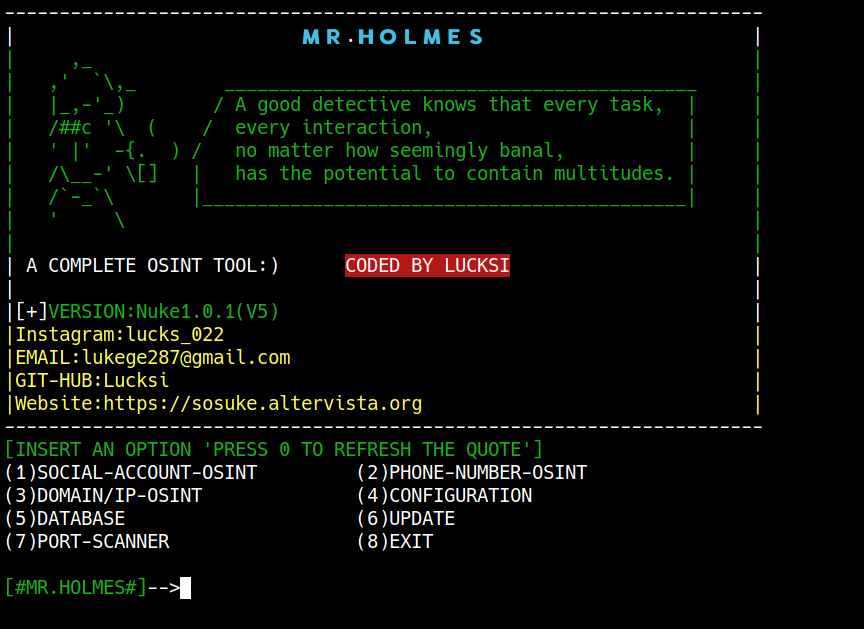
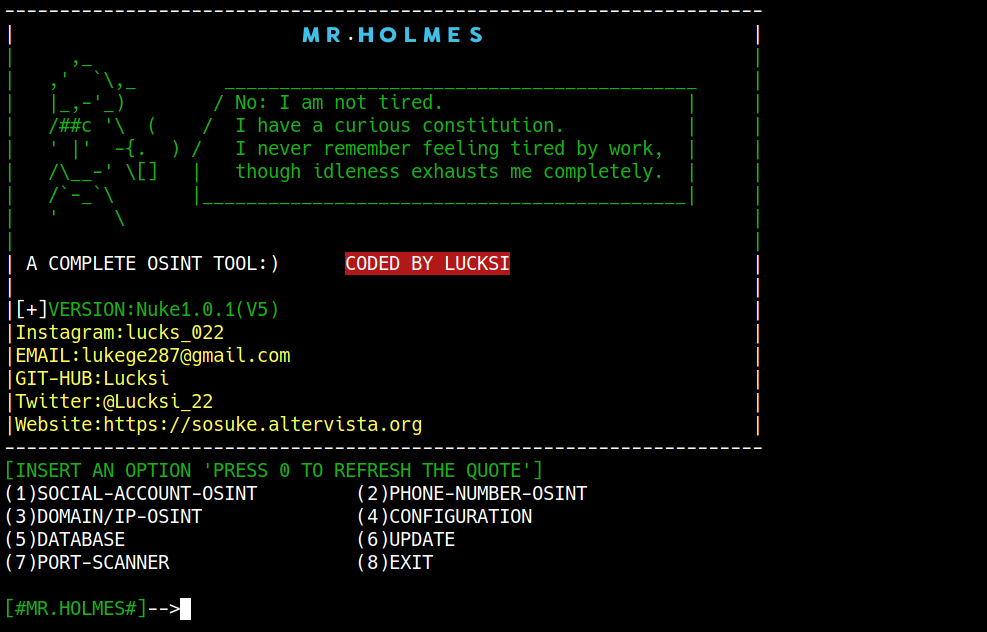
Add files via upload

diff --git a/MrHolmes.py b/MrHolmes.py
@@ -3,122 +3,17 @@
 # Copyright © 2021 Lucksi
 # License: GNU General Public License v3.0
 
-import os
-import random
+from Core.Support import Menu
 from Core.Support import Font
-from Core.Support import Clear
-from Core import Searcher
-from Core import config
-from Core import Searcher_phone
-from Core import Searcher_website
-from Core import Port_Scanner
-from Core import Update
-from Core.Support import Database
-from Core.Support import Agree
 
 class Main:
 
-    @staticmethod
-    def Checker():
-        if os.path.exists("Configuration/Agreement.txt"):
-            pass
-        else:
-            Agree.One_time.Agreement()
-
-    @staticmethod
-    def banner(r):
-        Clear.Screen.Clear()
-        f = open("Version/Version.txt", "r", newline=None)
-        for line in f:
-            r = line.replace("\n", "")
-        version = f.read() + r
-        f.close()
-        Quotes = [  "Quotes1.txt","Quotes4.txt","Quotes3.txt","Quotes7.txt",
-                    "Quotes6.txt","Quotes2.txt","Quotes5.txt","Quotes8.txt",
-                    "Quotes9.txt","Quotes10.txt","Quotes11.txt","Quotes12.txt",
-                    "Quotes13.txt","Quotes14.txt","Quotes15.txt","Quotes16.txt",
-                    "Quotes17.txt","Quotes18.txt","Quotes19.txt","Quotes20.txt" ]
-        choice = random.choice(Quotes)
-        f = open("Quotes/" + choice,"r", newline=None)
-        text = f.read()
-        f.close()
-        if os.name == "nt":
-            u = "|\t\t\t    MR.HOLMES\t\t\t\t    |"
-        else:
-            u = "|\t\t\t   🇲🇷.🇭🇴🇱🇲🇪🇸\t\t\t    |"
-        print(Font.Color.WHITE + "---------------------------------------------------------------------")
-        print(Font.Color.WHITE + u)
-        print(Font.Color.GREEN + text
-        +
-        Font.Color.WHITE + "| A COMPLETE OSINT TOOL:)      " +      Font.Color.BANNER + "CODED BY LUCKSI" + Font.Color.RESET + Font.Color.WHITE + "                      |\n|                                                                   |")
-        print(Font.Color.WHITE + "|[+]" + Font.Color.GREEN + "VERSION:" + version + Font.Color.WHITE + "                                           |")
-        print(
-            Font.Color.YELLOW + "|Instagram:lucks_022                                                |\n|EMAIL:lukege287@gmail.com                                          |\n|GIT-HUB:Lucksi                                                     |\n|Website:https://sosuke.altervista.org                              |")
-        print(Font.Color.WHITE + "---------------------------------------------------------------------")
-
-    @staticmethod
-    def main():
-        while True:
-            try:
-                Main.Checker()
-                Main.banner(r=True)
-                option = "(1)SOCIAL-ACCOUNT-OSINT\t\t(2)PHONE-NUMBER-OSINT\n(3)DOMAIN/IP-OSINT\t\t(4)CONFIGURATION\n(5)DATABASE\t\t\t(6)UPDATE\n(7)PORT-SCANNER\t\t\t(8)EXIT"
-                options = str(option)
-                print(Font.Color.GREEN + "[INSERT AN OPTION 'PRESS 0 TO REFRESH THE QUOTE']")
-                print(Font.Color.WHITE + options)
-                sce = int(input(Font.Color.GREEN + "\n[#MR.HOLMES#]" + Font.Color.WHITE + "-->"))
-                if sce == 1:
-                    print(Font.Color.RED + "\n[!]" + Font.Color.WHITE + "ATTENTION SOME OF THE RESULTS MAY BE FALSE POSITIVES")
-                    username = str(input(
-                        Font.Color.BLUE + "\n[+]" + Font.Color.WHITE + "INSERT THE USERNAME" + Font.Color.GREEN + "\n\n[#MR.HOLMES#]" + Font.Color.WHITE + "-->"))
-                    while username == "" :
-                        username = str(input(
-                        Font.Color.BLUE + "\n[+]" + Font.Color.WHITE + "INSERT THE USERNAME" + Font.Color.GREEN + "\n\n[#MR.HOLMES#]" + Font.Color.WHITE + "-->"))
-                    Searcher.MrHolmes.search(username)
-
-                elif sce == 2:
-                    username = str(input(
-                        Font.Color.BLUE + "\n[+]" + Font.Color.WHITE + "INSERT THE PHONE NUMBER WITHOUT(+)" + Font.Color.GREEN + "\n\n[#MR.HOLMES#]" + Font.Color.WHITE + "-->"))
-                    while username == "" :
-                        username = str(input(
-                            Font.Color.BLUE + "\n[+]" + Font.Color.WHITE + "INSERT THE PHONE NUMBER WITHOUT(+)" + Font.Color.GREEN + "\n\n[#MR.HOLMES#]" + Font.Color.WHITE + "-->"))
-                    Searcher_phone.Phone_search.searcher(username)
-
-                elif sce == 3:
-                    username = str(input(Font.Color.BLUE + "\n[+]" + Font.Color.WHITE + "INSERT A DOMAIN OR A IP ADDRESS(IPv4/IPv6)" + Font.Color.GREEN + "\n\n[#MR.HOLMES#]" + Font.Color.WHITE + "-->"))
-                    while username == "":
-                        username = str(input(Font.Color.BLUE + "\n[+]" + Font.Color.WHITE + "INSERT A DOMAIN OR A IP ADDRESS(IPv4/IPv6)" + Font.Color.GREEN + "\n\n[#MR.HOLMES#]" + Font.Color.WHITE + "-->"))
-                    Searcher_website.Web.search(username)
-                elif sce == 4:
-                    config.Config.main()
-                elif sce == 5:
-                    Database.Controller.Gui()
-                elif sce == 6:
-                    if os.name == "nt":
-                       #os.system("cd Core && update.cmd")#
-                       Update.Downloader.Check_Creds()
-                    else:
-                        os.system("Core/./update.sh")
-                elif sce == 7:
-                    username = input(Font.Color.BLUE + "\n[+]" + Font.Color.WHITE + "INSERT A HOST TO SCAN" + Font.Color.GREEN + "\n\n[#MR.HOLMES#]" + Font.Color.WHITE + "-->")
-                    while username == "":
-                        username = str(input(Font.Color.BLUE + "\n[+]" + Font.Color.WHITE + "INSERT A HOST TO SCAN " + Font.Color.GREEN + "\n\n[#MR.HOLMES#]" + Font.Color.WHITE + "-->"))
-                    Port_Scanner.Ports.Main(username)
-                elif sce == 8:
-                    print("\nHAVE A NICE DAY BYE:)\n")
-                    exit()
-                elif sce == 0:
-                    Main.main()
-                else:
-                    print(Font.Color.RED + "[!]" + Font.Color.WHITE + "LOOKS LIKE YOU HIT A WRONG OPTION EXIT...")
-                    exit()
-            except ValueError as e :
-                print(Font.Color.RED + "[!]" + Font.Color.WHITE + "LOOKS LIKE YOU HIT A WRONG OPTION EXIT...")
-                exit()
+    def Menu():
+        Menu.Main.main()
 
 if __name__ == "__main__":
     try:
-        Main.main()
+       Main.Menu()
     except KeyboardInterrupt:
         print(Font.Color.RED + "\n\n[!]" + Font.Color.WHITE + "LOOKS LIKE YOU HIT 'CTRL-C' EXIT...")
         exit()

diff --git a/Core/Support/Menu.py b/Core/Support/Menu.py
@@ -1,0 +1,116 @@
+#!/usr/bin/python3
+# AUTHOR: Lucksi
+# Copyright © 2021 Lucksi
+# License: GNU General Public License v3.0
+
+import os
+import random
+from Core.Support import Font
+from Core.Support import Clear
+from Core import Searcher
+from Core import config
+from Core import Searcher_phone
+from Core import Searcher_website
+from Core import Port_Scanner
+from Core import Update
+from Core.Support import Database
+from Core.Support import Agree
+
+class Main:
+
+    @staticmethod
+    def Checker():
+        if os.path.exists("Configuration/Agreement.txt"):
+            pass
+        else:
+            Agree.One_time.Agreement()
+
+    @staticmethod
+    def banner(r):
+        Clear.Screen.Clear()
+        f = open("Version/Version.txt", "r", newline=None)
+        for line in f:
+            r = line.replace("\n", "")
+        version = f.read() + r
+        f.close()
+        Quotes = [  "Quotes1.txt","Quotes4.txt","Quotes3.txt","Quotes7.txt",
+                    "Quotes6.txt","Quotes2.txt","Quotes5.txt","Quotes8.txt",
+                    "Quotes9.txt","Quotes10.txt","Quotes11.txt","Quotes12.txt",
+                    "Quotes13.txt","Quotes14.txt","Quotes15.txt","Quotes16.txt",
+                    "Quotes17.txt","Quotes18.txt","Quotes19.txt","Quotes20.txt" ]
+        choice = random.choice(Quotes)
+        f = open("Quotes/" + choice,"r", newline=None)
+        text = f.read()
+        f.close()
+        if os.name == "nt":
+            u = "|\t\t\t    MR.HOLMES\t\t\t\t    |"
+        else:
+            u = "|\t\t\t   🇲🇷.🇭🇴🇱🇲🇪🇸\t\t\t    |"
+        print(Font.Color.WHITE + "---------------------------------------------------------------------")
+        print(Font.Color.WHITE + u)
+        print(Font.Color.GREEN + text
+        +
+        Font.Color.WHITE + "| A COMPLETE OSINT TOOL:)      " +      Font.Color.BANNER + "CODED BY LUCKSI" + Font.Color.RESET + Font.Color.WHITE + "                      |\n|                                                                   |")
+        print(Font.Color.WHITE + "|[+]" + Font.Color.GREEN + "VERSION:" + version + Font.Color.WHITE + "                                           |")
+        print(
+            Font.Color.YELLOW + "|Instagram:lucks_022                                                |\n|EMAIL:lukege287@gmail.com                                          |\n|GIT-HUB:Lucksi                                                     |\n|Twitter:@Lucksi_22                                                 |\n|Website:https://sosuke.altervista.org                              |")
+        print(Font.Color.WHITE + "---------------------------------------------------------------------")
+
+    @staticmethod
+    def main():
+        while True:
+            try:
+                Main.Checker()
+                Main.banner(r=True)
+                option = "(1)SOCIAL-ACCOUNT-OSINT\t\t(2)PHONE-NUMBER-OSINT\n(3)DOMAIN/IP-OSINT\t\t(4)CONFIGURATION\n(5)DATABASE\t\t\t(6)UPDATE\n(7)PORT-SCANNER\t\t\t(8)EXIT"
+                options = str(option)
+                print(Font.Color.GREEN + "[INSERT AN OPTION 'PRESS 0 TO REFRESH THE QUOTE']")
+                print(Font.Color.WHITE + options)
+                sce = int(input(Font.Color.GREEN + "\n[#MR.HOLMES#]" + Font.Color.WHITE + "-->"))
+                if sce == 1:
+                    print(Font.Color.RED + "\n[!]" + Font.Color.WHITE + "ATTENTION SOME OF THE RESULTS MAY BE FALSE POSITIVES")
+                    username = str(input(
+                        Font.Color.BLUE + "\n[+]" + Font.Color.WHITE + "INSERT THE USERNAME" + Font.Color.GREEN + "\n\n[#MR.HOLMES#]" + Font.Color.WHITE + "-->"))
+                    while username == "" :
+                        username = str(input(
+                        Font.Color.BLUE + "\n[+]" + Font.Color.WHITE + "INSERT THE USERNAME" + Font.Color.GREEN + "\n\n[#MR.HOLMES#]" + Font.Color.WHITE + "-->"))
+                    Searcher.MrHolmes.search(username)
+
+                elif sce == 2:
+                    username = str(input(
+                        Font.Color.BLUE + "\n[+]" + Font.Color.WHITE + "INSERT THE PHONE NUMBER WITHOUT(+)" + Font.Color.GREEN + "\n\n[#MR.HOLMES#]" + Font.Color.WHITE + "-->"))
+                    while username == "" :
+                        username = str(input(
+                            Font.Color.BLUE + "\n[+]" + Font.Color.WHITE + "INSERT THE PHONE NUMBER WITHOUT(+)" + Font.Color.GREEN + "\n\n[#MR.HOLMES#]" + Font.Color.WHITE + "-->"))
+                    Searcher_phone.Phone_search.searcher(username)
+
+                elif sce == 3:
+                    username = str(input(Font.Color.BLUE + "\n[+]" + Font.Color.WHITE + "INSERT A DOMAIN OR A IP ADDRESS(IPv4/IPv6)" + Font.Color.GREEN + "\n\n[#MR.HOLMES#]" + Font.Color.WHITE + "-->"))
+                    while username == "":
+                        username = str(input(Font.Color.BLUE + "\n[+]" + Font.Color.WHITE + "INSERT A DOMAIN OR A IP ADDRESS(IPv4/IPv6)" + Font.Color.GREEN + "\n\n[#MR.HOLMES#]" + Font.Color.WHITE + "-->"))
+                    Searcher_website.Web.search(username)
+                elif sce == 4:
+                    config.Config.main()
+                elif sce == 5:
+                    Database.Controller.Gui()
+                elif sce == 6:
+                    if os.name == "nt":
+                       Update.Downloader.Check_Creds()
+                    else:
+                        os.system("Core/./update.sh")
+                elif sce == 7:
+                    username = input(Font.Color.BLUE + "\n[+]" + Font.Color.WHITE + "INSERT A HOST TO SCAN" + Font.Color.GREEN + "\n\n[#MR.HOLMES#]" + Font.Color.WHITE + "-->")
+                    while username == "":
+                        username = str(input(Font.Color.BLUE + "\n[+]" + Font.Color.WHITE + "INSERT A HOST TO SCAN " + Font.Color.GREEN + "\n\n[#MR.HOLMES#]" + Font.Color.WHITE + "-->"))
+                    Port_Scanner.Ports.Main(username)
+                elif sce == 8:
+                    print("\nHAVE A NICE DAY BYE:)\n")
+                    exit()
+                elif sce == 0:
+                    Main.main()
+                else:
+                    print(Font.Color.RED + "[!]" + Font.Color.WHITE + "LOOKS LIKE YOU HIT A WRONG OPTION EXIT...")
+                    exit()
+            except ValueError as e :
+                print(Font.Color.RED + "[!]" + Font.Color.WHITE + "LOOKS LIKE YOU HIT A WRONG OPTION EXIT...")
+                exit()

diff --git a/Core/Support/Numbers.py b/Core/Support/Numbers.py
@@ -2,8 +2,8 @@
 # Copyright © 2021 Lucksi
 # License: GNU General Public License v3.0
 
-import MrHolmes as holmes
 import phonenumbers
+import MrHolmes as holmes
 from phonenumbers import carrier
 from phonenumbers import geocoder
 from phonenumbers import timezone
@@ -21,7 +21,7 @@ class Phony:
             Phone = phonenumbers.parse(FormattedPhoneNumber, None)
         except Exception as e:
                 inp = input(Font.Color.RED + "\n[!]" + Font.Color.WHITE + "NUMBER NOT FOUND...PRESS ENTER TO CONTINUE")
-                holmes.Main.main()
+                holmes.Main.Menu()
         else:
             if not phonenumbers.is_valid_number(Phone):
                 reality = ("THIS IS PROBABLY NOT A REAL PHONE-NUMBER")

diff --git a/Core/config.py b/Core/config.py
@@ -363,7 +363,7 @@ class Config:
                 Config.modify_Database_Visibility()
             elif sce == 12:
                 inp = input("PRESS ENTER TO CONTINUE...")
-                holmes.Main.main()
+                holmes.Main.Menu()
             else:
                 inp = input(Font.Color.RED + "[!]" + Font.Color.WHITE + "WRONG OPTION PRESS ENTER TO CONTINUE...")
-                holmes.Main.main()
+                Config.main()

diff --git a/Core/Update.py b/Core/Update.py
@@ -32,7 +32,6 @@ class Downloader:
     def Update():
         Path = Parser["Settings"]["Path"]
         os.system("cd {}".format(Path))
-
         os.system("rename Mr.Holmes Mr.Holmes2")
         os.system("git clone https://github.com/Lucksi/Mr.Holmes 2>NUL >NUL")
         choice = int(input(Font.Color.WHITE + "\nWOULD YOU LIKE TO DELETE THE OLD FILES?(1)YES(2)NO\n\n"))

diff --git a/Core/Support/Database.py b/Core/Support/Database.py
@@ -3,7 +3,6 @@
 # License: GNU General Public License v3.0
 
 import os
-import MrHolmes as Holmes
 import socket
 from Core.Support import Font
 from time import sleep
@@ -44,4 +43,3 @@ class Controller:
             else:
                 print(Font.Color.BLUE + "\n[I]" + Font.Color.WHITE + "TOKEN NOT FOUND...")
             sleep(3)
-            Holmes.Main()
